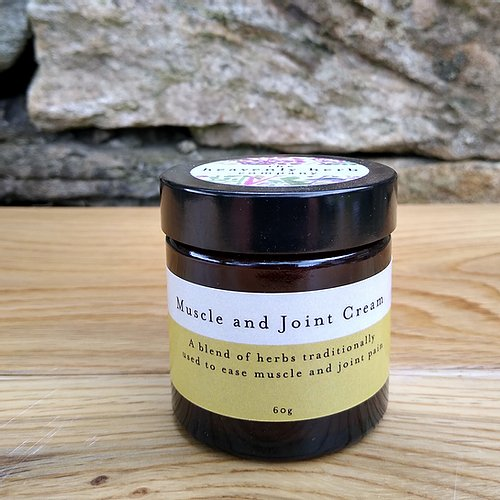
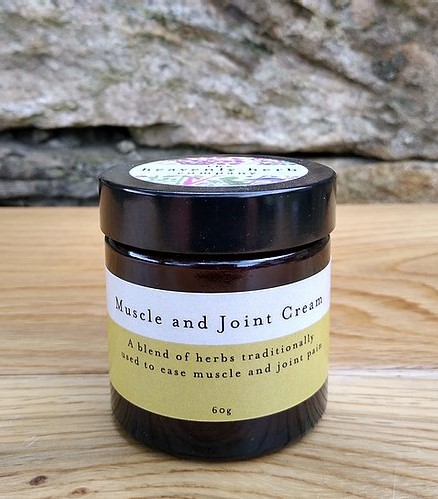
Adjusted image sizes for products

diff --git a/static/css/products.css b/static/css/products.css
@@ -2,6 +2,7 @@ html {
     background: url('/media/alt-background.jpg') no-repeat center center fixed;
     background-size: cover;
 }
+
 .sub-nav{
     margin-top: 20px;
     padding: 10px 15px;
@@ -16,11 +17,12 @@ html {
     margin-bottom: 5px;
 }
 
-.img-box{
+/* .img-box{
     max-width: 80px;
     overflow: hidden;
-}
+} */
 
 .product-img{
-    height: 100px;
+    height: 130px;
+    width: 100px;
 }
